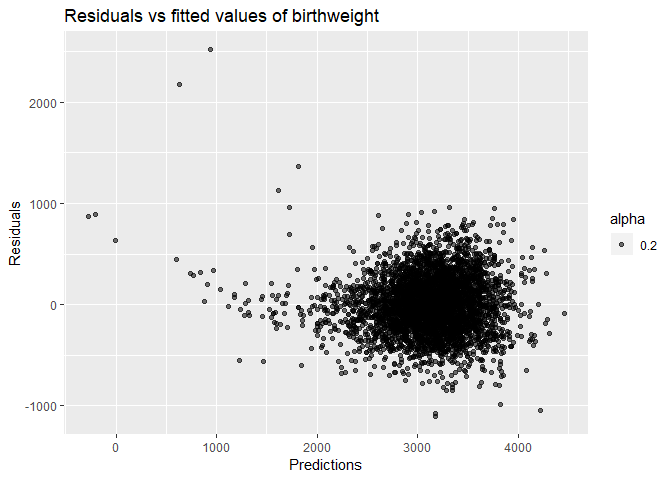
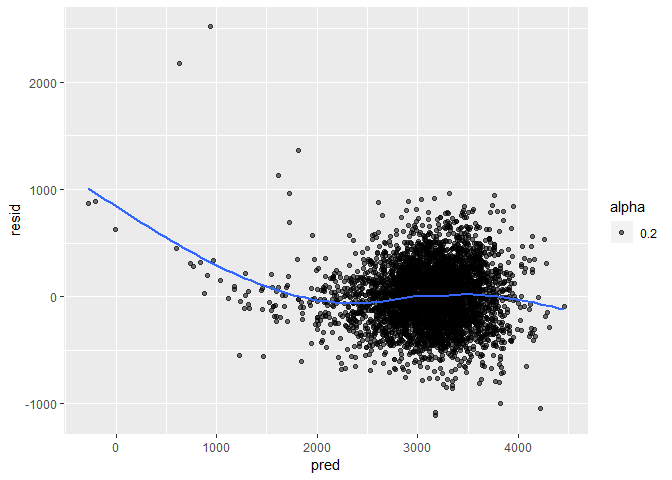
Modify plots

diff --git a/p8105_hw6_rh2916.md b/p8105_hw6_rh2916.md
@@ -34,9 +34,6 @@ df_homicide = read_csv("./data/homicide-data.csv") %>%
     ##   disposition = col_character()
     ## )
 
-    ## Warning in evalq(as.numeric(victim_age), <environment>): NAs introduced by
-    ## coercion
-
 After cleaning and tidying, the dataset contains 14 variables and 48507
 observations.
 
@@ -369,13 +366,29 @@ df_birthweight %>%
   modelr::add_residuals(lm_model) %>% 
   ggplot(aes(x=pred,y=resid))+
   geom_point(aes(alpha=.2))+
+  geom_smooth(se=F)
+```
+
+![](p8105_hw6_rh2916_files/figure-gfm/unnamed-chunk-7-1.png)<!-- -->
+
+``` r
   labs(
     title = "Residuals vs fitted values of birthweight",
     x = "Predictions", y = "Residuals"
   )
 ```
 
-![](p8105_hw6_rh2916_files/figure-gfm/unnamed-chunk-7-1.png)<!-- -->
+    ## $title
+    ## [1] "Residuals vs fitted values of birthweight"
+    ## 
+    ## $x
+    ## [1] "Predictions"
+    ## 
+    ## $y
+    ## [1] "Residuals"
+    ## 
+    ## attr(,"class")
+    ## [1] "labels"
 
 The plot is Residuals vs fitted values of birthweight, from which we can
 find that most of the residuals are around 0, but there are some
